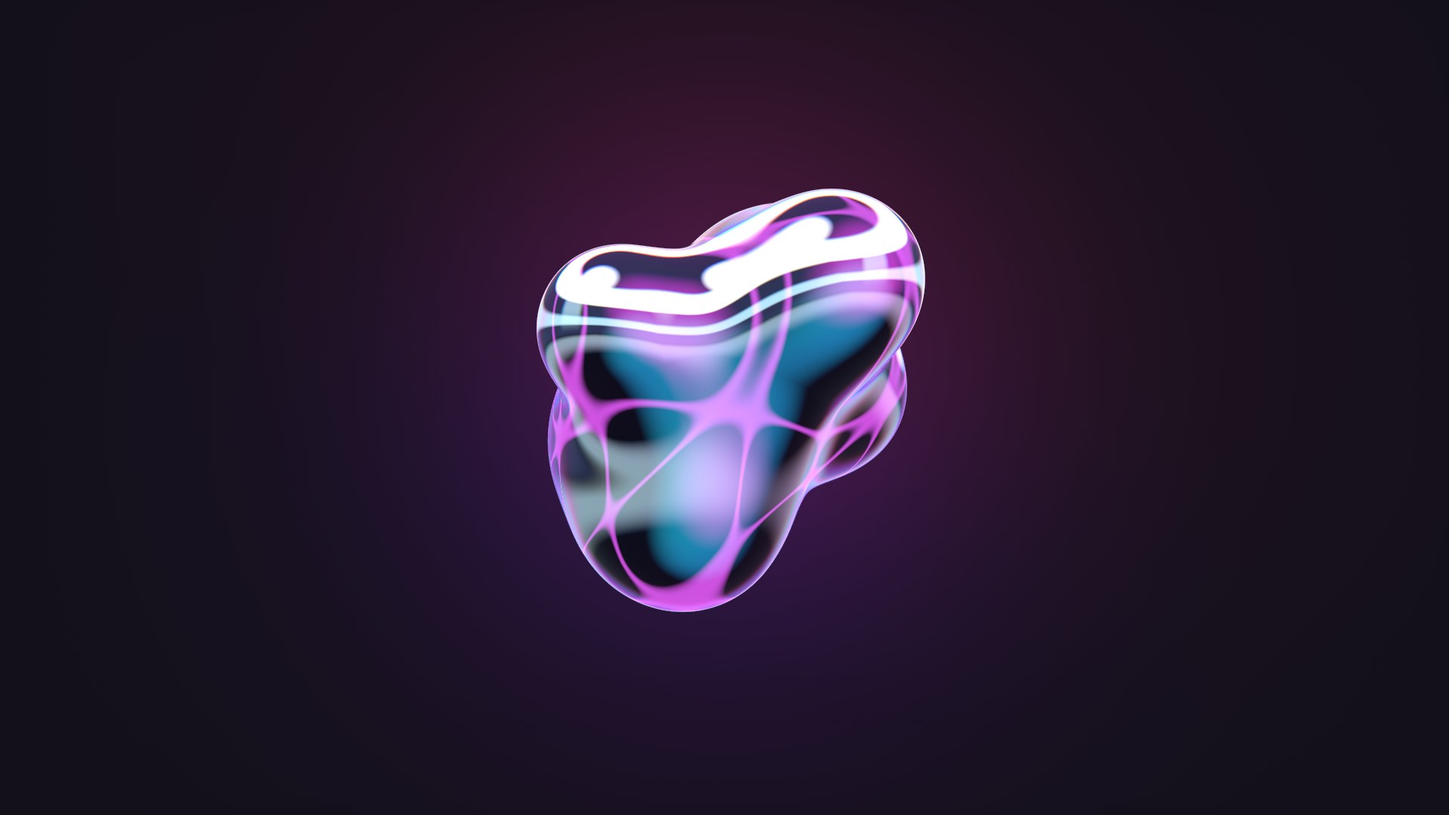
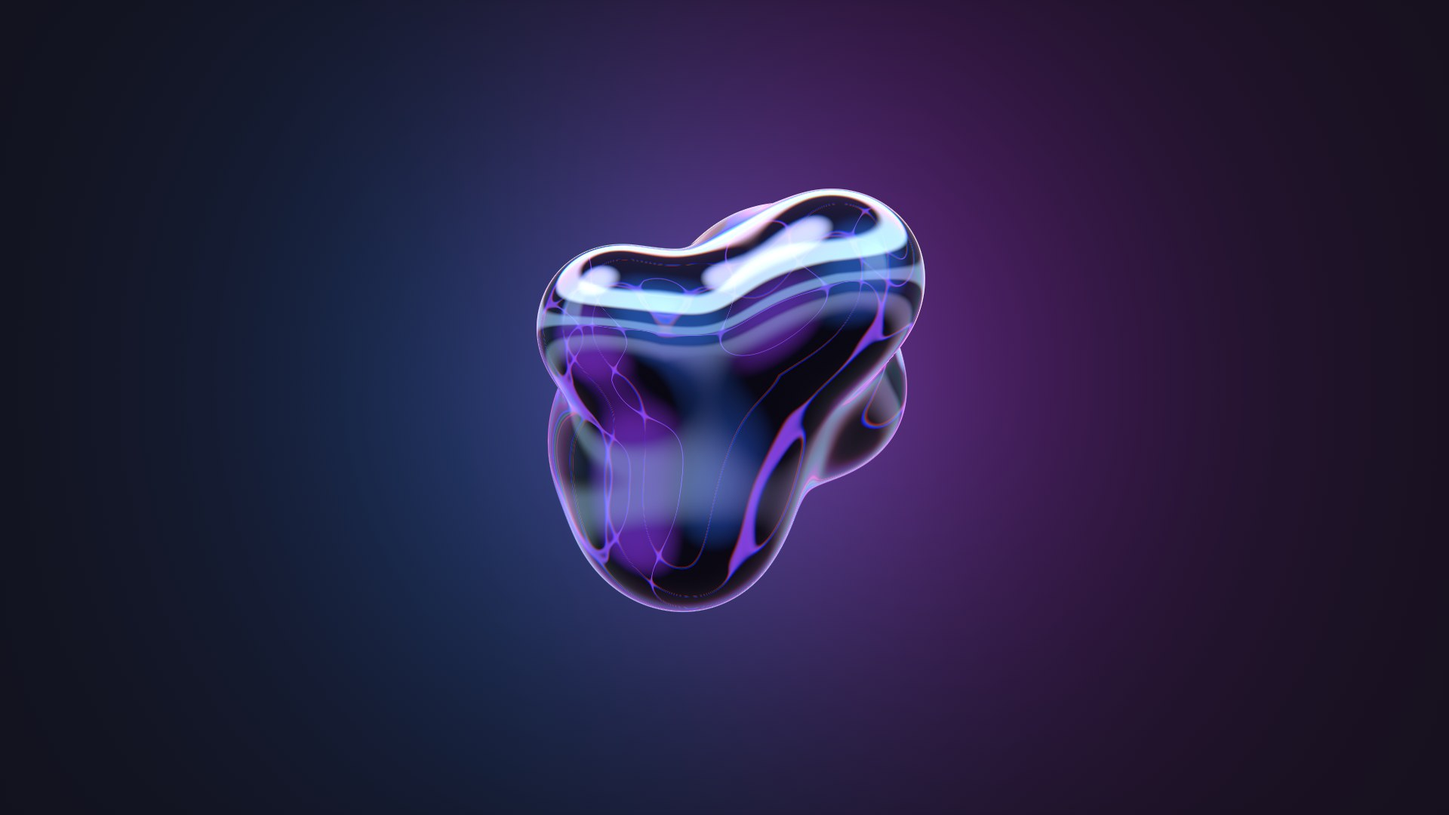
Deploy ec34c94

diff --git a/assets/index-BTaPc32Q.js b/assets/index-BTaPc32Q.js
@@ -85,7 +85,7 @@ const vec3 GROUND_L = vec3(0.038, 0.044, 0.068); // cool floor
 // almost black so the body of the metal stays black and only the gels register
 // — that near-black-with-hot-edges contrast is the whole look. A merely dim
 // room gives grey plastic.
-const vec3 TOP_D    = vec3(0.030, 0.024, 0.058);
+const vec3 TOP_D    = vec3(0.016, 0.014, 0.040);
 const vec3 GROUND_D = vec3(0.0015, 0.0012, 0.004);
 
 // Gelled studio lights. Chrome has no colour of its own — everything you see in
@@ -94,7 +94,7 @@ const vec3 GROUND_D = vec3(0.0015, 0.0012, 0.004);
 const vec3 KEY_DIR  = vec3( 0.35,  0.86,  0.37);
 const vec3 FILL_DIR = vec3(-0.72,  0.30,  0.62);
 const vec3 RIM_DIR  = vec3( 0.15, -0.25, -0.96);
-const vec3 ACC_DIR  = vec3(-0.55, -0.42,  0.72);
+const vec3 ACC_DIR  = vec3( 0.62, -0.30,  0.72);
 
 const vec3 KEY_L  = vec3(0.92, 0.95, 1.00); // neutral, faintly cool
 const vec3 FILL_L = vec3(0.48, 0.70, 1.00); // blue
@@ -103,11 +103,12 @@ const vec3 ACC_L  = vec3(0.45, 0.85, 1.00); // cyan
 
 // Neon gels, linear. Far past Tokyo Night's UI colours: those are tuned to be
 // readable as text on a screen, and read as pastel once they are the only light
-// in a black room. #ff2bd6 magenta, #a855f7 violet, #22d3ee electric cyan.
-const vec3 KEY_D  = vec3(0.85, 0.80, 1.00);
-const vec3 FILL_D = vec3(1.00, 0.024, 0.673);
-const vec3 RIM_D  = vec3(0.393, 0.091, 0.931);
-const vec3 ACC_D  = vec3(0.015, 0.651, 0.854);
+// in a black room. Weighted to blue and violet — magenta dominates fast because
+// the iridescence already pushes the surface pink at grazing angles.
+const vec3 KEY_D  = vec3(0.82, 0.84, 1.00);
+const vec3 FILL_D = vec3(0.05, 0.28, 1.00); // electric blue, from the left
+const vec3 RIM_D  = vec3(0.42, 0.12, 1.00); // violet, from behind (rim only)
+const vec3 ACC_D  = vec3(0.55, 0.06, 1.00); // purple, from the right
 
 // Bloom. The references all have it and a single-pass raymarcher has no
 // post-process to blur with — but the march already tracks each ray's closest
@@ -124,22 +125,33 @@ const vec3 ACC_D  = vec3(0.015, 0.651, 0.854);
 // minD ~0.05 and lights up at nearly full strength. That produced a hard-edged
 // magenta disc the width of the bounding sphere.
 #define GLOW_CORE     2.2    // falloff of the bright core
-#define GLOW_CORE_I   0.10
-#define GLOW_HALO_R   2.30   // outer reach of the soft wash
-#define GLOW_HALO_I   0.045
-const vec3 GLOW_A = vec3(0.42, 0.04, 0.95); // violet
-const vec3 GLOW_B = vec3(0.95, 0.05, 0.55); // magenta
+#define GLOW_CORE_I   0.34
+#define GLOW_HALO_R   2.70   // outer reach of the soft wash
+#define GLOW_HALO_I   0.15
+const vec3 GLOW_A = vec3(0.05, 0.24, 1.00); // electric blue, left
+const vec3 GLOW_B = vec3(0.55, 0.06, 1.00); // purple, right
 
-// Emissive filaments. The zero-crossings of a product of sines form a connected
-// network across the surface, which is what reads as veins of energy rather
-// than as spots.
-#define VEIN_GAIN  0.70
-#define VEIN_WIDTH 0.055
-const vec3 VEIN_COL = vec3(0.80, 0.09, 1.00);
+// Neon filaments. These live in the *environment*, not on the surface. Painted
+// onto the surface in object space they sit still relative to the geometry and
+// read as a net wrapped around it; in the room they are reflected, so they sweep
+// across the metal as it turns and mirror correctly off every face — which is
+// what makes them read as reflections of neon tubes rather than as decoration.
+// Thin and quick: at any real width they stop being filaments and become a mesh.
+#define VEIN_GAIN  1.15
+#define VEIN_WIDTH 0.030
+const vec3 VEIN_COL = vec3(0.45, 0.12, 1.00);
+
+// Base reflectance. Light mode is a near-perfect mirror; dark mode is black
+// chrome, which is what actually keeps the body dark. Turning the lights down
+// instead would dim the highlights too and give grey plastic — here fresnel
+// still drives reflectance to 1 at grazing angles, so the rims stay hot while
+// the broad faces go black.
+const vec3 F0_L = vec3(0.93, 0.95, 0.99);
+const vec3 F0_D = vec3(0.30, 0.33, 0.44);
 
 // Resolved once per pixel in main() rather than per env() call — env() runs
 // three times for the dispersion split and the palette does not vary by ray.
-vec3 gTop, gGround, gKey, gFill, gRim, gAcc;
+vec3 gTop, gGround, gKey, gFill, gRim, gAcc, gF0;
 float gStripGain;
 
 void resolvePalette() {
@@ -149,9 +161,10 @@ void resolvePalette() {
   gFill      = mix(FILL_L,   FILL_D,   uDark);
   gRim       = mix(RIM_L,    RIM_D,    uDark);
   gAcc       = mix(ACC_L,    ACC_D,    uDark);
+  gF0        = mix(F0_L,     F0_D,     uDark);
   // The light strips have to punch harder against a dark room to still read as
   // specular highlights rather than as part of the body tone.
-  gStripGain = mix(1.0, 1.55, uDark);
+  gStripGain = mix(1.0, 1.30, uDark);
 }
 
 // Iridescence palette. Rather than cycling the full colour wheel — which
@@ -350,7 +363,15 @@ vec3 env(vec3 r) {
   c += mix(vec3(1.0), gKey, 0.55) * 1.90 * gStripGain * smoothstep(0.90, 0.998, dot(q, KEY_DIR));
   c += gFill * 0.38 * gStripGain * smoothstep(0.45, 0.97, dot(q, FILL_DIR));
   c += gRim  * 0.34 * gStripGain * smoothstep(0.66, 1.00, dot(q, RIM_DIR));
-  c += gAcc  * 0.22 * gStripGain * smoothstep(0.55, 0.98, dot(q, ACC_DIR));
+  c += gAcc  * mix(0.22, 0.40, uDark) * gStripGain * smoothstep(0.55, 0.98, dot(q, ACC_DIR));
+
+  // Domain-warped first: straight product-of-sines zero-crossings form a regular
+  // lattice, which reads as a cage. Displacing by a second sine field breaks it
+  // into wandering filaments, and running both faster keeps them travelling.
+  vec3 wq = q * 1.7 + 0.55 * sin(q.yzx * 3.0 + uTime * 0.9);
+  float fil = sin(wq.x * 2.2 + uTime * 1.1) * sin(wq.y * 2.0 - uTime * 0.9)
+            * sin(wq.z * 2.4 + uTime * 1.3);
+  c += VEIN_COL * (1.0 - smoothstep(0.0, VEIN_WIDTH, abs(fil))) * VEIN_GAIN * uDark;
 
   return c;
 }
@@ -542,8 +563,7 @@ void main() {
         env(normalize(r + n * disp)).b
       );
 
-      vec3 F0 = vec3(0.93, 0.95, 0.99);
-      metal = refl * mix(F0, vec3(1.0), fres) * ao(p, n);
+      metal = refl * mix(gF0, vec3(1.0), fres) * ao(p, n);
 
       // Thin-film interference. A cosine palette offset per channel approximates
       // the spectral banding of anodised or oil-filmed metal. Driven by view
@@ -558,17 +578,6 @@ void main() {
       // Shoulder so the blown light strips roll off instead of clipping to a
       // flat white blob. Applied to the metal only — the paper has to come out
       // exactly as authored, since the CSS background has to match it.
-      // Emissive veins, dark mode only — additive, so they survive the shoulder
-      // below as blown-out cores with coloured fringes rather than being
-      // compressed into the body tone.
-      // Domain-warped first. Straight product-of-sines zero-crossings form a
-      // regular lattice, which reads as a wireframe cage over the object rather
-      // than as veins; displacing the sample point by another sine field breaks
-      // the lattice into wandering filaments.
-      vec3 w = p + 0.38 * sin(p.yzx * 3.1 + t * 0.4);
-      float fil = sin(w.x * 6.5 + t * 0.5) * sin(w.y * 5.8 - t * 0.4) * sin(w.z * 7.1 + t * 0.6);
-      metal += VEIN_COL * (1.0 - smoothstep(0.0, VEIN_WIDTH, abs(fil))) * VEIN_GAIN * uDark;
-
       metal = metal / (1.0 + metal * 0.30) * 1.30;
     }
   }
@@ -580,7 +589,7 @@ void main() {
   float core = exp(-ca * GLOW_CORE);
   float halo = 1.0 - smoothstep(0.0, GLOW_HALO_R, ca);
   halo = halo * halo * halo;
-  vec3 glowCol = mix(GLOW_A, GLOW_B, smoothstep(-0.7, 0.7, suv.y + 0.35 * suv.x));
+  vec3 glowCol = mix(GLOW_A, GLOW_B, smoothstep(-1.0, 1.0, suv.x + 0.30 * suv.y));
   col += glowCol * (core * GLOW_CORE_I + halo * GLOW_HALO_I) * uDark;
 
   col = mix(col, metal, cov);
@@ -595,10 +604,10 @@ void main() {
   col += (ign(frag) - 0.5) / 255.0;
   fragColor = vec4(col, 1.0);
 }
-`,T=7,ye=13,xe=[0,-.49,0,.29,0,.49,0,.29,1,1,1,.92,.92,-.49,0,0,.29,.49,0,0,.29,1,1,1,.92,.92,0,.18,0,.12,0,.3,0,.12,1,1,1,0,0,0,-.2,0,.12,0,-.34,0,.12,1,1,1,0,0,-.18,0,0,.1,-.3,0,0,.1,1,1,1,0,0,.18,0,0,.1,.3,0,0,.1,1,1,1,0,0,0,0,-.1,.1,0,0,.1,.1,1,1,1,0,0],Le=[0,-.52,0,.055,0,.02,0,.002,9.44,1,9.44,0,1,0,-.19,0,.047,0,.38,0,.002,9.34,1,9.34,0,1,0,.1,0,.036,0,.78,0,.0016,9.44,1,9.44,0,1,0,-.8,0,.05,0,-.42,0,.05,4.2,1,4.2,0,1,-.15,-.45,0,.08,-.06,-.45,0,.08,1,1,1,0,0,.15,-.45,0,.08,.06,-.45,0,.08,1,1,1,0,0,0,-.45,-.12,.08,0,-.45,.12,.08,1,1,1,0,0],Se=[0,-.087,0,.271,0,-.087,0,.271,2.86,1,1.738,1,1,-.51,.269,-.235,.085,-.51,.269,-.235,.085,2.39,1,2.39,0,1,0,.269,-.235,.085,0,.269,-.235,.085,2.39,1,2.39,0,1,.51,.269,-.235,.085,.51,.269,-.235,.085,2.39,1,2.39,0,1,-.51,.269,.235,.085,-.51,.269,.235,.085,2.39,1,2.39,0,1,0,.269,.235,.085,0,.269,.235,.085,2.39,1,2.39,0,1,.51,.269,.235,.085,.51,.269,.235,.085,2.39,1,2.39,0,1],O=[{shape:null,hold:4,morph:1.4},{shape:xe,hold:2.6,morph:1.3},{shape:Le,hold:2.6,morph:1.3},{shape:Se,hold:2.6,morph:1.4}],Ae=O.reduce((t,o)=>t+o.hold+o.morph,0),Ee=.004,ke=.03,ae=.012,re=.015,De=.22,se=.26,Pe=.85,_e=t=>t*t*(3-2*t),k=(t,o,a)=>t+(o-t)*a;function Te(){const t=new Float32Array(T*4),o=new Float32Array(T*4),a=new Float32Array(T*4),u=new Float32Array(T),n={partA:t,partB:o,partC:a,partSqY:u,mix:0,k:re,wobble:ae,spin:0};function e(g,f,v){for(let p=0;p<T;p++){const b=p*ye;for(let s=0;s<4;s++)t[p*4+s]=k(g[b+s],f[b+s],v),o[p*4+s]=k(g[b+4+s],f[b+4+s],v),a[p*4+s]=k(g[b+8+s],f[b+8+s],v);u[p]=k(g[b+12],f[b+12],v)}}return function(f){let v=f%Ae,p=0;for(let x=0;x<O.length;x++){const m=O[x];if(v<m.hold+m.morph){p=x;break}v-=m.hold+m.morph}const b=O[p],s=O[(p+1)%O.length],h=v>b.hold,L=h?_e((v-b.hold)/b.morph):0;b.shape&&s.shape?(e(b.shape,s.shape,L),n.mix=1):b.shape?(e(b.shape,b.shape,0),n.mix=1-L):s.shape?(e(s.shape,s.shape,0),n.mix=L):n.mix=0;const w=h?Math.sin(L*Math.PI):0;if(w>0){const x=w*Pe;for(let m=0;m<T;m++){t[m*4+3]=k(t[m*4+3],se,x),o[m*4+3]=k(o[m*4+3],se,x);for(let d=0;d<3;d++)a[m*4+d]=k(a[m*4+d],1,x);a[m*4+3]=k(a[m*4+3],0,x),u[m]=k(u[m],0,x)}}return n.k=k(re,De,w),n.wobble=k(b.shape||h&&s.shape?Ee:ae,ke,w),n.spin=Math.sin(f*.32)*.55,n}}const Ie={maxSteps:128,balls:7,aoTaps:5,maxDpr:2},Re={maxSteps:72,balls:5,aoTaps:3,maxDpr:1.5},ie=.55,H=1,le=2.4;function ce(t){const o=parseInt(t.replace("#",""),16),a=u=>{const n=u/255;return n<=.04045?n/12.92:Math.pow((n+.055)/1.055,2.4)};return[a(o>>16&255),a(o>>8&255),a(o&255)]}function he(t,o){let a=t.replace(/^#version 300 es\s*/m,"");return o==="vert"?a=a.replace(/\bin\s+(vec\d|float)\s/g,"attribute $1 "):(a=a.replace(/^out\s+vec4\s+fragColor;\s*$/m,""),a=a.replace(/\bfragColor\b/g,"gl_FragColor")),a}function de(t,o,a,u){const n=t.createShader(o);if(!n)throw new Error(`could not create ${u} shader`);if(t.shaderSource(n,a),t.compileShader(n),!t.getShaderParameter(n,t.COMPILE_STATUS)){const e=t.getShaderInfoLog(n)??"(no log)";throw t.deleteShader(n),new Error(`${u} shader failed to compile:
+`,T=7,ye=13,xe=[0,-.49,0,.29,0,.49,0,.29,1,1,1,.92,.92,-.49,0,0,.29,.49,0,0,.29,1,1,1,.92,.92,0,.18,0,.12,0,.3,0,.12,1,1,1,0,0,0,-.2,0,.12,0,-.34,0,.12,1,1,1,0,0,-.18,0,0,.1,-.3,0,0,.1,1,1,1,0,0,.18,0,0,.1,.3,0,0,.1,1,1,1,0,0,0,0,-.1,.1,0,0,.1,.1,1,1,1,0,0],Le=[0,-.52,0,.055,0,.02,0,.002,9.44,1,9.44,0,1,0,-.19,0,.047,0,.38,0,.002,9.34,1,9.34,0,1,0,.1,0,.036,0,.78,0,.0016,9.44,1,9.44,0,1,0,-.8,0,.05,0,-.42,0,.05,4.2,1,4.2,0,1,-.15,-.45,0,.08,-.06,-.45,0,.08,1,1,1,0,0,.15,-.45,0,.08,.06,-.45,0,.08,1,1,1,0,0,0,-.45,-.12,.08,0,-.45,.12,.08,1,1,1,0,0],Se=[0,-.087,0,.271,0,-.087,0,.271,2.86,1,1.738,1,1,-.51,.269,-.235,.085,-.51,.269,-.235,.085,2.39,1,2.39,0,1,0,.269,-.235,.085,0,.269,-.235,.085,2.39,1,2.39,0,1,.51,.269,-.235,.085,.51,.269,-.235,.085,2.39,1,2.39,0,1,-.51,.269,.235,.085,-.51,.269,.235,.085,2.39,1,2.39,0,1,0,.269,.235,.085,0,.269,.235,.085,2.39,1,2.39,0,1,.51,.269,.235,.085,.51,.269,.235,.085,2.39,1,2.39,0,1],O=[{shape:null,hold:4,morph:1.4},{shape:xe,hold:2.6,morph:1.3},{shape:Le,hold:2.6,morph:1.3},{shape:Se,hold:2.6,morph:1.4}],Ae=O.reduce((t,o)=>t+o.hold+o.morph,0),ke=.004,Ee=.03,ae=.012,re=.015,De=.22,se=.26,_e=.85,Pe=t=>t*t*(3-2*t),E=(t,o,a)=>t+(o-t)*a;function Te(){const t=new Float32Array(T*4),o=new Float32Array(T*4),a=new Float32Array(T*4),u=new Float32Array(T),n={partA:t,partB:o,partC:a,partSqY:u,mix:0,k:re,wobble:ae,spin:0};function e(g,f,v){for(let p=0;p<T;p++){const b=p*ye;for(let s=0;s<4;s++)t[p*4+s]=E(g[b+s],f[b+s],v),o[p*4+s]=E(g[b+4+s],f[b+4+s],v),a[p*4+s]=E(g[b+8+s],f[b+8+s],v);u[p]=E(g[b+12],f[b+12],v)}}return function(f){let v=f%Ae,p=0;for(let x=0;x<O.length;x++){const m=O[x];if(v<m.hold+m.morph){p=x;break}v-=m.hold+m.morph}const b=O[p],s=O[(p+1)%O.length],h=v>b.hold,L=h?Pe((v-b.hold)/b.morph):0;b.shape&&s.shape?(e(b.shape,s.shape,L),n.mix=1):b.shape?(e(b.shape,b.shape,0),n.mix=1-L):s.shape?(e(s.shape,s.shape,0),n.mix=L):n.mix=0;const w=h?Math.sin(L*Math.PI):0;if(w>0){const x=w*_e;for(let m=0;m<T;m++){t[m*4+3]=E(t[m*4+3],se,x),o[m*4+3]=E(o[m*4+3],se,x);for(let d=0;d<3;d++)a[m*4+d]=E(a[m*4+d],1,x);a[m*4+3]=E(a[m*4+3],0,x),u[m]=E(u[m],0,x)}}return n.k=E(re,De,w),n.wobble=E(b.shape||h&&s.shape?ke:ae,Ee,w),n.spin=Math.sin(f*.32)*.55,n}}const Ie={maxSteps:128,balls:7,aoTaps:5,maxDpr:2},Re={maxSteps:72,balls:5,aoTaps:3,maxDpr:1.5},ie=.55,Y=1,le=2.4;function ce(t){const o=parseInt(t.replace("#",""),16),a=u=>{const n=u/255;return n<=.04045?n/12.92:Math.pow((n+.055)/1.055,2.4)};return[a(o>>16&255),a(o>>8&255),a(o&255)]}function he(t,o){let a=t.replace(/^#version 300 es\s*/m,"");return o==="vert"?a=a.replace(/\bin\s+(vec\d|float)\s/g,"attribute $1 "):(a=a.replace(/^out\s+vec4\s+fragColor;\s*$/m,""),a=a.replace(/\bfragColor\b/g,"gl_FragColor")),a}function de(t,o,a,u){const n=t.createShader(o);if(!n)throw new Error(`could not create ${u} shader`);if(t.shaderSource(n,a),t.compileShader(n),!t.getShaderParameter(n,t.COMPILE_STATUS)){const e=t.getShaderInfoLog(n)??"(no log)";throw t.deleteShader(n),new Error(`${u} shader failed to compile:
 ${e}`)}return n}function Ce(t,o,a){const u={alpha:!1,antialias:!1,depth:!1,stencil:!1,powerPreference:"high-performance",preserveDrawingBuffer:!1};let n="webgl2",e=a.forceGL1?null:t.getContext("webgl2",u);if(!e){const i=t.getContext("webgl",u);if(!i)return null;e=i,n="webgl1"}const f=window.matchMedia("(pointer: coarse)").matches||window.innerWidth<700?Re:Ie,v=`#define MAX_STEPS ${f.maxSteps}
 #define BALLS ${f.balls}
 #define PARTS ${T}
 #define AO_TAPS ${f.aoTaps}
 `,p=i=>i.includes("#version")?i.replace(/(#version[^\n]*\n)/,`$1${v}`):v+i;let b=we,s=p(oe);n==="webgl1"&&(b=he(b,"vert"),s=v+he(oe,"frag"));let h;try{const i=de(e,e.VERTEX_SHADER,b,"vertex"),r=de(e,e.FRAGMENT_SHADER,s,"fragment"),l=e.createProgram();if(!l)throw new Error("could not create program");if(e.attachShader(l,i),e.attachShader(l,r),e.bindAttribLocation(l,0,"aPos"),e.linkProgram(l),!e.getProgramParameter(l,e.LINK_STATUS))throw new Error(`program failed to link:
-${e.getProgramInfoLog(l)??"(no log)"}`);e.deleteShader(i),e.deleteShader(r),h=l}catch(i){return console.error("[gl]",i),null}const L=e.createBuffer();e.bindBuffer(e.ARRAY_BUFFER,L),e.bufferData(e.ARRAY_BUFFER,new Float32Array([-1,-1,3,-1,-1,3]),e.STATIC_DRAW),e.enableVertexAttribArray(0),e.vertexAttribPointer(0,2,e.FLOAT,!1,0,0),e.useProgram(h);const w={resolution:e.getUniformLocation(h,"uResolution"),time:e.getUniformLocation(h,"uTime"),pointer:e.getUniformLocation(h,"uPointer"),pointerActive:e.getUniformLocation(h,"uPointerActive"),press:e.getUniformLocation(h,"uPress"),event:e.getUniformLocation(h,"uEvent"),focus:e.getUniformLocation(h,"uFocus"),paper:e.getUniformLocation(h,"uPaper"),dark:e.getUniformLocation(h,"uDark"),balls:e.getUniformLocation(h,"uBalls"),partA:e.getUniformLocation(h,"uPartA"),partB:e.getUniformLocation(h,"uPartB"),partC:e.getUniformLocation(h,"uPartC"),partSqY:e.getUniformLocation(h,"uPartSqY"),shapeMix:e.getUniformLocation(h,"uShapeMix"),shapeK:e.getUniformLocation(h,"uShapeK"),shapeSpin:e.getUniformLocation(h,"uShapeSpin"),wobble:e.getUniformLocation(h,"uWobble")},x=ce(a.paperLight),m=ce(a.paperDark);let d=H,c=0,y=0;function S(){const i=Math.min(window.devicePixelRatio||1,f.maxDpr),r=Math.max(1,Math.round(t.clientWidth*i*d)),l=Math.max(1,Math.round(t.clientHeight*i*d));r===c&&l===y||(c=r,y=l,t.width=r,t.height=l,e.viewport(0,0,r,l),e.uniform2f(w.resolution,r,l))}let P=16,B=0;function me(i){P+=(i-P)*.08,B++,!(B<45)&&(P>20&&d>ie?(d=Math.max(ie,d-.12),B=0,S()):P<12&&d<H&&(d=Math.min(H,d+.08),B=0,S()))}let q=0,I=!1,K=0,U=0;const M=new Float32Array(f.balls*4);function ge(i){for(let r=0;r<f.balls;r++){const l=r*2.3999632;let R=Math.sin(i*(.53+.11*r)+l)+1e-4,_=Math.cos(i*(.47+.09*r)+l*1.7)+1e-4,C=Math.sin(i*(.41+.13*r)+l*2.3)+1e-4;const z=Math.hypot(R,_,C),Y=(.45+.25*(r*.6180339%1))*(.88+.12*Math.sin(i*.6+l))/z;M[r*4]=R*Y,M[r*4+1]=_*Y,M[r*4+2]=C*Y,M[r*4+3]=.26+.12*(r*.381966%1)}e.uniform4fv(w.balls,M)}const ve=Te();function F(i){const r=o();ge(i);const l=ve(i);e.uniform4fv(w.partA,l.partA),e.uniform4fv(w.partB,l.partB),e.uniform4fv(w.partC,l.partC),e.uniform1fv(w.partSqY,l.partSqY),e.uniform1f(w.shapeMix,l.mix),e.uniform1f(w.shapeK,l.k),e.uniform1f(w.shapeSpin,l.spin),e.uniform1f(w.wobble,l.wobble),e.uniform1f(w.time,i),e.uniform2f(w.pointer,r.pointer[0],r.pointer[1]),e.uniform1f(w.pointerActive,r.pointerActive),e.uniform1f(w.press,r.press),e.uniform1f(w.event,r.eventTime),e.uniform1f(w.focus,r.focus),e.uniform1f(w.dark,r.dark),e.uniform3f(w.paper,x[0]+(m[0]-x[0])*r.dark,x[1]+(m[1]-x[1])*r.dark,x[2]+(m[2]-x[2])*r.dark),e.drawArrays(e.TRIANGLES,0,3)}function X(i){if(!I)return;const r=U===0?16:i-U,l=Math.min(r,50);U=i,K+=l/1e3,S(),r<100&&me(l),F(K),q=requestAnimationFrame(X)}function V(i,r){c=i,y=r,t.width=i,t.height=r,e.viewport(0,0,i,r),e.uniform2f(w.resolution,i,r)}function Z(){S(),F(le)}const Q=()=>{I?S():Z()};window.addEventListener("resize",Q);const J=()=>{document.hidden?j():a.reducedMotion||te()};document.addEventListener("visibilitychange",J);const ee=i=>{i.preventDefault(),I=!1,cancelAnimationFrame(q),t.dispatchEvent(new CustomEvent("gl:lost",{bubbles:!0}))};t.addEventListener("webglcontextlost",ee);function te(){if(!I){if(a.reducedMotion){Z();return}I=!0,U=0,P=16,B=0,q=requestAnimationFrame(X)}}function j(){I=!1,cancelAnimationFrame(q)}return{mode:n,start:te,stop:j,capture(i={}){const{w:r,h:l,type:R="image/png",quality:_,t:C=le}=i;r&&l?V(r,l):S(),F(C);const z=t.toDataURL(R,_);return r&&l&&(c=0),z},bench(i=60,r,l){r&&l?V(r,l):S();const R=new Uint8Array(4),_=()=>e.readPixels(0,0,1,1,e.RGBA,e.UNSIGNED_BYTE,R);F(0),_();const C=performance.now();for(let N=0;N<i;N++)F(N*.016);_();const z=+((performance.now()-C)/i).toFixed(2);return c=0,{msPerFrame:z,buffer:`${r??t.width}x${l??t.height}`}},dispose(){j(),window.removeEventListener("resize",Q),document.removeEventListener("visibilitychange",J),t.removeEventListener("webglcontextlost",ee),e.deleteProgram(h),e.deleteBuffer(L)}}}const ue=78,pe=11.5,Oe=3.2,Be=9;function Me(t){let o=0,a=0,u=0,n=0,e=0,g=0,f=0,v=0,p=0,b=0,s=0;function h(c,y){const S=t.getBoundingClientRect();S.width===0||S.height===0||(o=((c-S.left)/S.width*2-1)*(S.width/S.height),a=-((y-S.top)/S.height*2-1))}const L=c=>{h(c.clientX,c.clientY),f=1},w=()=>{f=1},x=()=>{f=0,p=0},m=c=>{h(c.clientX,c.clientY),f=1,p=1},d=()=>{p=0};return window.addEventListener("pointermove",L,{passive:!0}),window.addEventListener("pointerdown",m,{passive:!0}),window.addEventListener("pointerup",d,{passive:!0}),window.addEventListener("pointercancel",x,{passive:!0}),document.addEventListener("pointerenter",w,{passive:!0}),document.addEventListener("pointerleave",x,{passive:!0}),{get position(){return[u,n]},get active(){return v},get press(){return b},sample(){const c=performance.now(),y=s===0?1/60:Math.min((c-s)/1e3,1/30);s=c,e+=((o-u)*ue-e*pe)*y,g+=((a-n)*ue-g*pe)*y,u+=e*y,n+=g*y,v+=(f-v)*Math.min(1,Oe*y),b+=(p-b)*Math.min(1,Be*y)},dispose(){window.removeEventListener("pointermove",L),window.removeEventListener("pointerdown",m),window.removeEventListener("pointerup",d),window.removeEventListener("pointercancel",x),document.removeEventListener("pointerenter",w),document.removeEventListener("pointerleave",x)}}}const Fe=/^[^\s@]+@[^\s@]+\.[^\s@]{2,}$/;function A(t){const o=document.getElementById(t);if(!o)throw new Error(`missing element #${t}`);return o}function ze({onSuccess:t,onToggle:o,announce:a}){const u=document.querySelector(".page"),n=A("js-disclose"),e=A("js-panel"),g=A("js-form"),f=A("js-submit"),v=A("js-note"),p=[{input:A("f-name"),err:A("f-name-err"),label:"name"},{input:A("f-email"),err:A("f-email-err"),label:"email"},{input:A("f-message"),err:A("f-message-err"),label:"message"}],b=A("f-gotcha");let s=!1;const h=(d,c)=>{s=d,n.setAttribute("aria-expanded",String(s)),e.classList.toggle("is-open",s),u.classList.toggle("is-expanded",s),document.body.classList.toggle("form-open",s),e.inert=!s,n.querySelector(".disclose-text").textContent=s?"or just email me":"or send a message",n.setAttribute("aria-label",s?"Hide the contact form":"Show the contact form"),o(s),s&&c&&requestAnimationFrame(()=>p[0].input.focus({preventScroll:!0}))};h(!1,!1),n.addEventListener("click",()=>h(!s,!0));function L(d,c){const y=p[d];y.input.closest(".field").classList.toggle("is-invalid",c!==null),y.input.setAttribute("aria-invalid",String(c!==null)),y.err.textContent=c??"",y.err.hidden=c===null,c?y.input.setAttribute("aria-describedby",y.err.id):y.input.removeAttribute("aria-describedby")}function w(){let d=!0;const[c,y,S]=[p[0].input.value.trim(),p[1].input.value.trim(),p[2].input.value.trim()];return c.length<1?(L(0,"Please add your name."),d=!1):L(0,null),y.length<1?(L(1,"Please add an email address."),d=!1):Fe.test(y)?L(1,null):(L(1,"That doesn't look like an email address."),d=!1),S.length<2?(L(2,"Please add a message."),d=!1):L(2,null),d}p.forEach((d,c)=>{d.input.addEventListener("input",()=>{d.input.closest(".field").classList.contains("is-invalid")&&L(c,null)})});let x=!1;function m(d,c){v.textContent=d,v.classList.toggle("is-error",c),d&&a(d)}g.addEventListener("submit",async d=>{if(d.preventDefault(),!x){if(b.value.trim()!==""){g.reset(),m("Thanks — message sent.",!1);return}if(!w()){const c=p.filter(y=>y.input.closest(".field").classList.contains("is-invalid"));c[0]?.input.focus(),a(c.length===1?"One field needs attention.":`${c.length} fields need attention.`),v.textContent="",v.classList.remove("is-error");return}x=!0,f.disabled=!0,f.setAttribute("aria-busy","true"),m("Sending…",!1);try{const c=await fetch(be,{method:"POST",headers:{Accept:"application/json"},body:new FormData(g)});if(c.ok)g.reset(),p.forEach((y,S)=>L(S,null)),m("Thanks — message sent. I’ll come back to you shortly.",!1),t();else{const y=await c.json().catch(()=>null),S=y?.errors?.[0]?.message,P=y?.error;S?m(S,!0):(console.error(`[contact] Formspree ${c.status}: ${P??"(no detail)"}`),m(`Couldn’t send that — please email me at ${D.email} instead.`,!0))}}catch{m(`Couldn’t reach the server — please email me at ${D.email} instead.`,!0)}finally{x=!1,f.disabled=!1,f.removeAttribute("aria-busy")}}})}function qe(t,o){const a=document.getElementById("js-copy"),u=document.getElementById("js-copy-label");if(!a||!u)return;if(!navigator.clipboard){a.remove();return}a.setAttribute("aria-label",`Copy ${t} to clipboard`);let n=0;a.addEventListener("click",async()=>{try{await navigator.clipboard.writeText(t),u.textContent="Copied",a.classList.add("is-done"),o("Email address copied to clipboard"),clearTimeout(n),n=window.setTimeout(()=>{u.textContent="Copy",a.classList.remove("is-done")},2e3)}catch{u.textContent="Press ⌘C",clearTimeout(n),n=window.setTimeout(()=>{u.textContent="Copy"},2500)}})}const fe="theme";function Ue(){try{const t=localStorage.getItem(fe);return t==="light"||t==="dark"?t:null}catch{return null}}function Ne(t){try{localStorage.setItem(fe,t)}catch{}}function Ge(t){let o=Ue()??"dark",a=o==="dark"?1:0;const u=document.getElementById("js-theme"),n=document.getElementById("js-theme-label");function e(g,f){o=g,document.documentElement.dataset.theme=o,document.documentElement.style.colorScheme=o;const v=o==="dark"?"light":"dark";n&&(n.textContent=v==="dark"?"Dark":"Light"),u?.setAttribute("aria-label",`Switch to ${v} mode`),u?.setAttribute("aria-pressed",String(o==="dark")),f&&t(`${o==="dark"?"Dark":"Light"} mode`)}return e(o,!1),u?.addEventListener("click",()=>{const g=o==="dark"?"light":"dark";e(g,!0),Ne(g)}),{amount(g){return a+=((o==="dark"?1:0)-a)*Math.min(1,4*g),a},get target(){return o}}}const G=document.getElementById("stage"),E=document.getElementById("poster"),je=document.getElementById("js-status"),W=t=>{je.textContent=t};function Ye(){document.getElementById("js-name").textContent=D.name,document.getElementById("js-role").textContent=D.role;const t=document.getElementById("js-email");t.textContent=D.email,t.href=`mailto:${D.email}`;const o=document.getElementById("js-availability");o.textContent=D.availability,document.getElementById("js-github").remove(),document.title=`${D.name} — ${D.role}`}function $(){if(G.hidden=!0,E.hidden=!1,E.addEventListener("load",()=>E.classList.add("is-shown"),{once:!0}),E.addEventListener("error",()=>{E.hidden=!0},{once:!0}),E.getAttribute("src"))E.complete&&E.naturalWidth>0&&E.classList.add("is-shown");else{const t=document.documentElement.dataset.theme!=="light";E.src=(t?E.dataset.srcDark:E.dataset.srcLight)??""}}function He(){Ye();const t=Ge(W),o=new URLSearchParams(location.search),a=o.has("static"),u=window.matchMedia("(prefers-reduced-motion: reduce)").matches||o.has("reduced");let n=-1;const e=()=>{n=performance.now()};let g=0,f=0,v=0;if(qe(D.email,W),ze({onSuccess:e,onToggle:h=>{g=h?1:0},announce:W}),a){$();return}const p=Me(G),s=Ce(G,()=>{p.sample();const h=performance.now(),L=v===0?1/60:Math.min((h-v)/1e3,1/30);return v=h,f+=(g-f)*Math.min(1,4.5*L),{pointer:p.position,pointerActive:p.active,press:p.press,eventTime:n<0?999:(h-n)/1e3,focus:f,dark:t.amount(L)}},{paperLight:ne.paperLight,paperDark:ne.paperDark,reducedMotion:u,forceGL1:o.has("gl1")});if(!s){p.dispose(),$();return}G.addEventListener("gl:lost",()=>{console.warn("[gl] context lost — falling back to the still poster"),$()}),s.start()}He();
+${e.getProgramInfoLog(l)??"(no log)"}`);e.deleteShader(i),e.deleteShader(r),h=l}catch(i){return console.error("[gl]",i),null}const L=e.createBuffer();e.bindBuffer(e.ARRAY_BUFFER,L),e.bufferData(e.ARRAY_BUFFER,new Float32Array([-1,-1,3,-1,-1,3]),e.STATIC_DRAW),e.enableVertexAttribArray(0),e.vertexAttribPointer(0,2,e.FLOAT,!1,0,0),e.useProgram(h);const w={resolution:e.getUniformLocation(h,"uResolution"),time:e.getUniformLocation(h,"uTime"),pointer:e.getUniformLocation(h,"uPointer"),pointerActive:e.getUniformLocation(h,"uPointerActive"),press:e.getUniformLocation(h,"uPress"),event:e.getUniformLocation(h,"uEvent"),focus:e.getUniformLocation(h,"uFocus"),paper:e.getUniformLocation(h,"uPaper"),dark:e.getUniformLocation(h,"uDark"),balls:e.getUniformLocation(h,"uBalls"),partA:e.getUniformLocation(h,"uPartA"),partB:e.getUniformLocation(h,"uPartB"),partC:e.getUniformLocation(h,"uPartC"),partSqY:e.getUniformLocation(h,"uPartSqY"),shapeMix:e.getUniformLocation(h,"uShapeMix"),shapeK:e.getUniformLocation(h,"uShapeK"),shapeSpin:e.getUniformLocation(h,"uShapeSpin"),wobble:e.getUniformLocation(h,"uWobble")},x=ce(a.paperLight),m=ce(a.paperDark);let d=Y,c=0,y=0;function S(){const i=Math.min(window.devicePixelRatio||1,f.maxDpr),r=Math.max(1,Math.round(t.clientWidth*i*d)),l=Math.max(1,Math.round(t.clientHeight*i*d));r===c&&l===y||(c=r,y=l,t.width=r,t.height=l,e.viewport(0,0,r,l),e.uniform2f(w.resolution,r,l))}let _=16,B=0;function me(i){_+=(i-_)*.08,B++,!(B<45)&&(_>20&&d>ie?(d=Math.max(ie,d-.12),B=0,S()):_<12&&d<Y&&(d=Math.min(Y,d+.08),B=0,S()))}let z=0,I=!1,K=0,N=0;const F=new Float32Array(f.balls*4);function ge(i){for(let r=0;r<f.balls;r++){const l=r*2.3999632;let R=Math.sin(i*(.53+.11*r)+l)+1e-4,P=Math.cos(i*(.47+.09*r)+l*1.7)+1e-4,C=Math.sin(i*(.41+.13*r)+l*2.3)+1e-4;const q=Math.hypot(R,P,C),W=(.45+.25*(r*.6180339%1))*(.88+.12*Math.sin(i*.6+l))/q;F[r*4]=R*W,F[r*4+1]=P*W,F[r*4+2]=C*W,F[r*4+3]=.26+.12*(r*.381966%1)}e.uniform4fv(w.balls,F)}const ve=Te();function M(i){const r=o();ge(i);const l=ve(i);e.uniform4fv(w.partA,l.partA),e.uniform4fv(w.partB,l.partB),e.uniform4fv(w.partC,l.partC),e.uniform1fv(w.partSqY,l.partSqY),e.uniform1f(w.shapeMix,l.mix),e.uniform1f(w.shapeK,l.k),e.uniform1f(w.shapeSpin,l.spin),e.uniform1f(w.wobble,l.wobble),e.uniform1f(w.time,i),e.uniform2f(w.pointer,r.pointer[0],r.pointer[1]),e.uniform1f(w.pointerActive,r.pointerActive),e.uniform1f(w.press,r.press),e.uniform1f(w.event,r.eventTime),e.uniform1f(w.focus,r.focus),e.uniform1f(w.dark,r.dark),e.uniform3f(w.paper,x[0]+(m[0]-x[0])*r.dark,x[1]+(m[1]-x[1])*r.dark,x[2]+(m[2]-x[2])*r.dark),e.drawArrays(e.TRIANGLES,0,3)}function X(i){if(!I)return;const r=N===0?16:i-N,l=Math.min(r,50);N=i,K+=l/1e3,S(),r<100&&me(l),M(K),z=requestAnimationFrame(X)}function V(i,r){c=i,y=r,t.width=i,t.height=r,e.viewport(0,0,i,r),e.uniform2f(w.resolution,i,r)}function Z(){S(),M(le)}const Q=()=>{I?S():Z()};window.addEventListener("resize",Q);const J=()=>{document.hidden?j():a.reducedMotion||te()};document.addEventListener("visibilitychange",J);const ee=i=>{i.preventDefault(),I=!1,cancelAnimationFrame(z),t.dispatchEvent(new CustomEvent("gl:lost",{bubbles:!0}))};t.addEventListener("webglcontextlost",ee);function te(){if(!I){if(a.reducedMotion){Z();return}I=!0,N=0,_=16,B=0,z=requestAnimationFrame(X)}}function j(){I=!1,cancelAnimationFrame(z)}return{mode:n,start:te,stop:j,capture(i={}){const{w:r,h:l,type:R="image/png",quality:P,t:C=le}=i;r&&l?V(r,l):S(),M(C);const q=t.toDataURL(R,P);return r&&l&&(c=0),q},bench(i=60,r,l){r&&l?V(r,l):S();const R=new Uint8Array(4),P=()=>e.readPixels(0,0,1,1,e.RGBA,e.UNSIGNED_BYTE,R);M(0),P();const C=performance.now();for(let U=0;U<i;U++)M(U*.016);P();const q=+((performance.now()-C)/i).toFixed(2);return c=0,{msPerFrame:q,buffer:`${r??t.width}x${l??t.height}`}},dispose(){j(),window.removeEventListener("resize",Q),document.removeEventListener("visibilitychange",J),t.removeEventListener("webglcontextlost",ee),e.deleteProgram(h),e.deleteBuffer(L)}}}const ue=78,pe=11.5,Oe=3.2,Be=9;function Fe(t){let o=0,a=0,u=0,n=0,e=0,g=0,f=0,v=0,p=0,b=0,s=0;function h(c,y){const S=t.getBoundingClientRect();S.width===0||S.height===0||(o=((c-S.left)/S.width*2-1)*(S.width/S.height),a=-((y-S.top)/S.height*2-1))}const L=c=>{h(c.clientX,c.clientY),f=1},w=()=>{f=1},x=()=>{f=0,p=0},m=c=>{h(c.clientX,c.clientY),f=1,p=1},d=()=>{p=0};return window.addEventListener("pointermove",L,{passive:!0}),window.addEventListener("pointerdown",m,{passive:!0}),window.addEventListener("pointerup",d,{passive:!0}),window.addEventListener("pointercancel",x,{passive:!0}),document.addEventListener("pointerenter",w,{passive:!0}),document.addEventListener("pointerleave",x,{passive:!0}),{get position(){return[u,n]},get active(){return v},get press(){return b},sample(){const c=performance.now(),y=s===0?1/60:Math.min((c-s)/1e3,1/30);s=c,e+=((o-u)*ue-e*pe)*y,g+=((a-n)*ue-g*pe)*y,u+=e*y,n+=g*y,v+=(f-v)*Math.min(1,Oe*y),b+=(p-b)*Math.min(1,Be*y)},dispose(){window.removeEventListener("pointermove",L),window.removeEventListener("pointerdown",m),window.removeEventListener("pointerup",d),window.removeEventListener("pointercancel",x),document.removeEventListener("pointerenter",w),document.removeEventListener("pointerleave",x)}}}const Me=/^[^\s@]+@[^\s@]+\.[^\s@]{2,}$/;function A(t){const o=document.getElementById(t);if(!o)throw new Error(`missing element #${t}`);return o}function qe({onSuccess:t,onToggle:o,announce:a}){const u=document.querySelector(".page"),n=A("js-disclose"),e=A("js-panel"),g=A("js-form"),f=A("js-submit"),v=A("js-note"),p=[{input:A("f-name"),err:A("f-name-err"),label:"name"},{input:A("f-email"),err:A("f-email-err"),label:"email"},{input:A("f-message"),err:A("f-message-err"),label:"message"}],b=A("f-gotcha");let s=!1;const h=(d,c)=>{s=d,n.setAttribute("aria-expanded",String(s)),e.classList.toggle("is-open",s),u.classList.toggle("is-expanded",s),document.body.classList.toggle("form-open",s),e.inert=!s,n.querySelector(".disclose-text").textContent=s?"or just email me":"or send a message",n.setAttribute("aria-label",s?"Hide the contact form":"Show the contact form"),o(s),s&&c&&requestAnimationFrame(()=>p[0].input.focus({preventScroll:!0}))};h(!1,!1),n.addEventListener("click",()=>h(!s,!0));function L(d,c){const y=p[d];y.input.closest(".field").classList.toggle("is-invalid",c!==null),y.input.setAttribute("aria-invalid",String(c!==null)),y.err.textContent=c??"",y.err.hidden=c===null,c?y.input.setAttribute("aria-describedby",y.err.id):y.input.removeAttribute("aria-describedby")}function w(){let d=!0;const[c,y,S]=[p[0].input.value.trim(),p[1].input.value.trim(),p[2].input.value.trim()];return c.length<1?(L(0,"Please add your name."),d=!1):L(0,null),y.length<1?(L(1,"Please add an email address."),d=!1):Me.test(y)?L(1,null):(L(1,"That doesn't look like an email address."),d=!1),S.length<2?(L(2,"Please add a message."),d=!1):L(2,null),d}p.forEach((d,c)=>{d.input.addEventListener("input",()=>{d.input.closest(".field").classList.contains("is-invalid")&&L(c,null)})});let x=!1;function m(d,c){v.textContent=d,v.classList.toggle("is-error",c),d&&a(d)}g.addEventListener("submit",async d=>{if(d.preventDefault(),!x){if(b.value.trim()!==""){g.reset(),m("Thanks — message sent.",!1);return}if(!w()){const c=p.filter(y=>y.input.closest(".field").classList.contains("is-invalid"));c[0]?.input.focus(),a(c.length===1?"One field needs attention.":`${c.length} fields need attention.`),v.textContent="",v.classList.remove("is-error");return}x=!0,f.disabled=!0,f.setAttribute("aria-busy","true"),m("Sending…",!1);try{const c=await fetch(be,{method:"POST",headers:{Accept:"application/json"},body:new FormData(g)});if(c.ok)g.reset(),p.forEach((y,S)=>L(S,null)),m("Thanks — message sent. I’ll come back to you shortly.",!1),t();else{const y=await c.json().catch(()=>null),S=y?.errors?.[0]?.message,_=y?.error;S?m(S,!0):(console.error(`[contact] Formspree ${c.status}: ${_??"(no detail)"}`),m(`Couldn’t send that — please email me at ${D.email} instead.`,!0))}}catch{m(`Couldn’t reach the server — please email me at ${D.email} instead.`,!0)}finally{x=!1,f.disabled=!1,f.removeAttribute("aria-busy")}}})}function ze(t,o){const a=document.getElementById("js-copy"),u=document.getElementById("js-copy-label");if(!a||!u)return;if(!navigator.clipboard){a.remove();return}a.setAttribute("aria-label",`Copy ${t} to clipboard`);let n=0;a.addEventListener("click",async()=>{try{await navigator.clipboard.writeText(t),u.textContent="Copied",a.classList.add("is-done"),o("Email address copied to clipboard"),clearTimeout(n),n=window.setTimeout(()=>{u.textContent="Copy",a.classList.remove("is-done")},2e3)}catch{u.textContent="Press ⌘C",clearTimeout(n),n=window.setTimeout(()=>{u.textContent="Copy"},2500)}})}const fe="theme";function Ne(){try{const t=localStorage.getItem(fe);return t==="light"||t==="dark"?t:null}catch{return null}}function Ue(t){try{localStorage.setItem(fe,t)}catch{}}function Ge(t){let o=Ne()??"dark",a=o==="dark"?1:0;const u=document.getElementById("js-theme"),n=document.getElementById("js-theme-label");function e(g,f){o=g,document.documentElement.dataset.theme=o,document.documentElement.style.colorScheme=o;const v=o==="dark"?"light":"dark";n&&(n.textContent=v==="dark"?"Dark":"Light"),u?.setAttribute("aria-label",`Switch to ${v} mode`),u?.setAttribute("aria-pressed",String(o==="dark")),f&&t(`${o==="dark"?"Dark":"Light"} mode`)}return e(o,!1),u?.addEventListener("click",()=>{const g=o==="dark"?"light":"dark";e(g,!0),Ue(g)}),{amount(g){return a+=((o==="dark"?1:0)-a)*Math.min(1,4*g),a},get target(){return o}}}const G=document.getElementById("stage"),k=document.getElementById("poster"),je=document.getElementById("js-status"),H=t=>{je.textContent=t};function We(){document.getElementById("js-name").textContent=D.name,document.getElementById("js-role").textContent=D.role;const t=document.getElementById("js-email");t.textContent=D.email,t.href=`mailto:${D.email}`;const o=document.getElementById("js-availability");o.textContent=D.availability,document.getElementById("js-github").remove(),document.title=`${D.name} — ${D.role}`}function $(){if(G.hidden=!0,k.hidden=!1,k.addEventListener("load",()=>k.classList.add("is-shown"),{once:!0}),k.addEventListener("error",()=>{k.hidden=!0},{once:!0}),k.getAttribute("src"))k.complete&&k.naturalWidth>0&&k.classList.add("is-shown");else{const t=document.documentElement.dataset.theme!=="light";k.src=(t?k.dataset.srcDark:k.dataset.srcLight)??""}}function Ye(){We();const t=Ge(H),o=new URLSearchParams(location.search),a=o.has("static"),u=window.matchMedia("(prefers-reduced-motion: reduce)").matches||o.has("reduced");let n=-1;const e=()=>{n=performance.now()};let g=0,f=0,v=0;if(ze(D.email,H),qe({onSuccess:e,onToggle:h=>{g=h?1:0},announce:H}),a){$();return}const p=Fe(G),s=Ce(G,()=>{p.sample();const h=performance.now(),L=v===0?1/60:Math.min((h-v)/1e3,1/30);return v=h,f+=(g-f)*Math.min(1,4.5*L),{pointer:p.position,pointerActive:p.active,press:p.press,eventTime:n<0?999:(h-n)/1e3,focus:f,dark:t.amount(L)}},{paperLight:ne.paperLight,paperDark:ne.paperDark,reducedMotion:u,forceGL1:o.has("gl1")});if(!s){p.dispose(),$();return}G.addEventListener("gl:lost",()=>{console.warn("[gl] context lost — falling back to the still poster"),$()}),s.start()}Ye();

diff --git a/index.html b/index.html
@@ -20,7 +20,7 @@
       }
     } catch (e) {}
   </script>
-  <script type="module" crossorigin src="./assets/index-BZym7Rx_.js"></script>
+  <script type="module" crossorigin src="./assets/index-BTaPc32Q.js"></script>
   <link rel="stylesheet" crossorigin href="./assets/index-CCuGkyWU.css">
 </head>
 <body>
